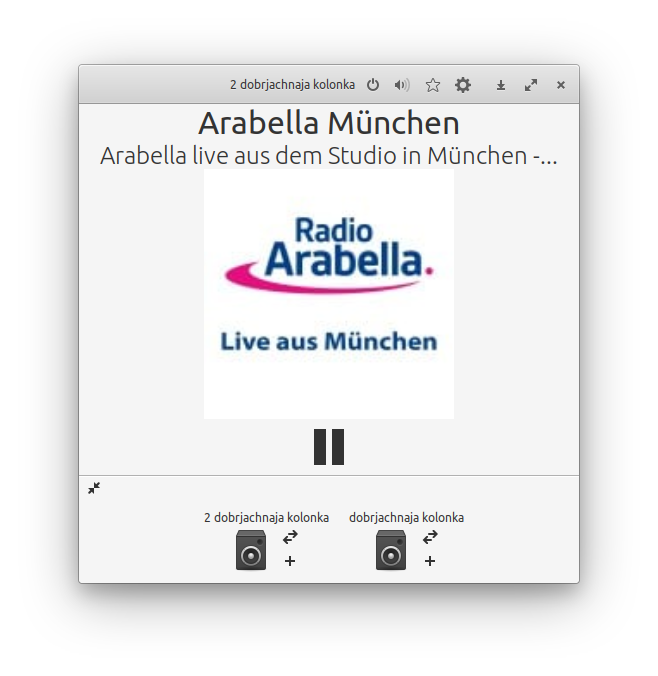
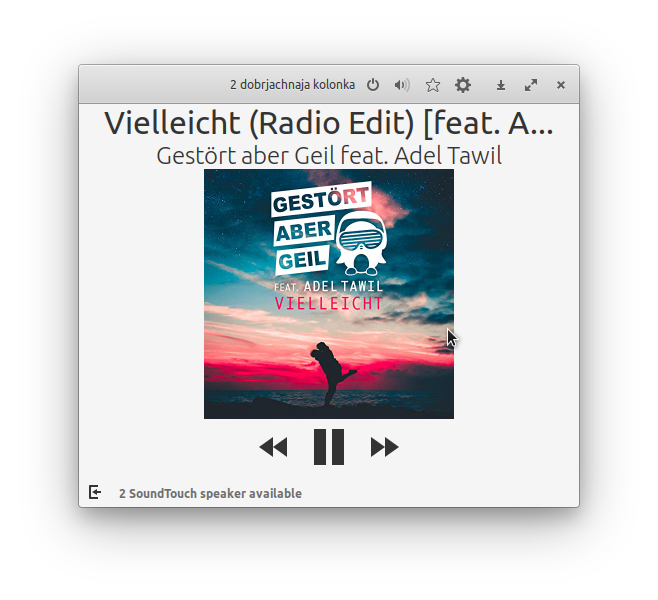
#30: speaker panel toggling improved

Changed region(s): [[0.1216, 0.09, 0.8815, 0.9]]

diff --git a/README.md b/README.md
@@ -30,6 +30,9 @@ app connects to the speaker over SoundTouch API (https://developer.bose.com/guid
 <p align="center">
   <img src="https://raw.githubusercontent.com/syfds/soundy/master/data/screenshot/screenshot-5.png">
 </p>
+<p align="center">
+  <img src="https://raw.githubusercontent.com/syfds/soundy/master/data/screenshot/screenshot-6.png">
+</p>
 
 ## Building and Installation
 
